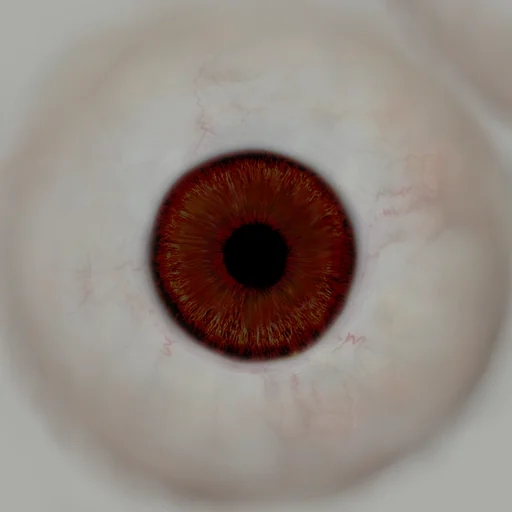
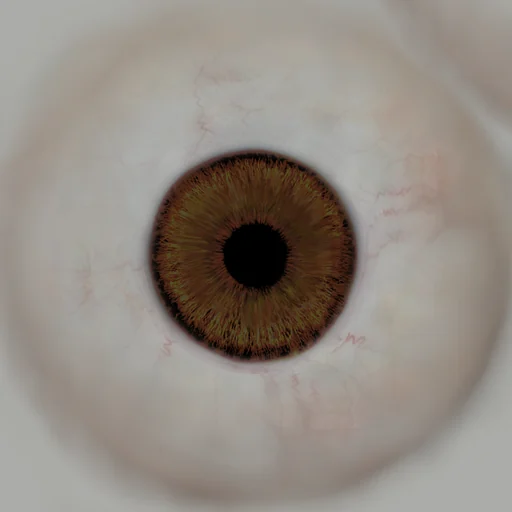
WIP: realism R&D snapshot (skeleton runtime, proxies tests, skin UV in progress)
Claude-Session: https://claude.ai/code/session_01Fa1ebHpDcKmbbxJAWQLf3G

Changed region(s): [[0.3125, 0.3125, 0.6875, 0.6875]]

diff --git a/src/__tests__/skeleton.test.ts b/src/__tests__/skeleton.test.ts
@@ -1,0 +1,251 @@
+import { readFileSync, statSync } from 'node:fs';
+import { join } from 'node:path';
+import { describe, expect, it } from 'vitest';
+import type { HumanData } from '../human/engine';
+import { fitHuman } from '../human/fit';
+import {
+  computeCapsules,
+  computeJoints,
+  estimateAbduction,
+  jointIndex,
+  loadSkeleton,
+  poseBones,
+  poseJoints,
+  skin,
+  type Skeleton,
+  type SkeletonJson,
+} from '../human/skeleton';
+
+const dir = join(__dirname, '..', '..', 'public', 'human');
+
+function loadHuman(): { data: HumanData; meta: { vectorScale: number } } {
+  const meta = JSON.parse(readFileSync(join(dir, 'human.json'), 'utf8'));
+  const b = readFileSync(join(dir, 'human.bin'));
+  const buf = b.buffer.slice(b.byteOffset, b.byteOffset + b.byteLength);
+  const [pOff, nVerts] = meta.layout.positions;
+  const data: HumanData = { base: new Float32Array(buf, pOff, nVerts * 3), nVerts, faces: {}, targets: new Map(), scale: meta.vectorScale };
+  for (const [g, [off, n]] of Object.entries(meta.layout.faces) as [string, [number, number]][]) data.faces[g] = new Uint16Array(buf, off, n * 4);
+  for (const t of meta.targets) data.targets.set(t.name, { idx: new Uint16Array(buf, t.idx, t.n), vec: new Int16Array(buf, t.vec, t.n * 3) });
+  return { data, meta };
+}
+
+function loadSkel(): Skeleton {
+  const json = JSON.parse(readFileSync(join(dir, 'skeleton.json'), 'utf8')) as SkeletonJson;
+  const b = readFileSync(join(dir, 'skeleton.bin'));
+  return loadSkeleton(json, b.buffer.slice(b.byteOffset, b.byteOffset + b.byteLength));
+}
+
+interface RefCase {
+  target: string | null;
+  weight: number;
+  t: number;
+  arm: number;
+  leg: number;
+  verts: number[];
+  pos: number[];
+  restJoints: number[];
+  joints: number[];
+  capsules: number[];
+  checksum: number;
+  estimate: [number, number];
+}
+
+const maxAbsDiff = (a: ArrayLike<number>, b: ArrayLike<number>) => {
+  expect(a.length).toBe(b.length);
+  let m = 0;
+  for (let i = 0; i < a.length; i++) m = Math.max(m, Math.abs(a[i] - b[i]));
+  return m;
+};
+
+describe('skeleton / relaxed pose', () => {
+  const { data } = loadHuman();
+  const skel = loadSkel();
+  const J = (j: Float32Array, name: string) => {
+    const i = jointIndex(skel, name) * 3;
+    return [j[i], j[i + 1], j[i + 2]];
+  };
+  const dist = (a: number[], b: number[]) => Math.hypot(a[0] - b[0], a[1] - b[1], a[2] - b[2]);
+  const male = { sex: 'male' as const, heightCm: 182, weight: 87.7, fatKg: 19.8, ffm: 67.9, smm: 38.2, age: 29 };
+  const obese = { sex: 'male' as const, heightCm: 176, weight: 140, fatKg: 60, ffm: 80, smm: 42, age: 40 };
+  const leanF = { sex: 'female' as const, heightCm: 168, weight: 50, fatKg: 8, ffm: 42, smm: 22, age: 25 };
+
+  it('asset is within budget and well formed', () => {
+    const kb = (statSync(join(dir, 'skeleton.bin')).size + statSync(join(dir, 'skeleton.json')).size) / 1024;
+    expect(kb).toBeLessThan(250);
+    expect(skel.nVerts).toBe(data.nVerts);
+    expect(skel.nBones).toBe(47);
+    expect(skel.nCapsules).toBeGreaterThanOrEqual(16);
+    expect(skel.nCapsules).toBeLessThanOrEqual(20);
+    for (let i = 0; i < skel.nBones; i++) expect(skel.boneParent[i]).toBeLessThan(i); // parents first
+    for (let v = 0; v < skel.nVerts; v++) {
+      const k = v * 4;
+      const sum = skel.skinWeight[k] + skel.skinWeight[k + 1] + skel.skinWeight[k + 2] + skel.skinWeight[k + 3];
+      if (Math.abs(sum - 1) > 1e-6 || skel.skinWeight[k] < skel.skinWeight[k + 1]) throw new Error(`bad weights at vertex ${v}`);
+    }
+  });
+
+  it('matches the numpy reference (tools/mh/build_skeleton.py) within 1e-3 dm', () => {
+    const ref = JSON.parse(readFileSync(join(__dirname, 'skeleton.selftest.json'), 'utf8')) as { cases: RefCase[] };
+    expect(ref.cases.length).toBeGreaterThanOrEqual(3);
+    for (const c of ref.cases) {
+      const pos = Float32Array.from(data.base);
+      if (c.target) {
+        const t = data.targets.get(c.target)!;
+        for (let i = 0; i < t.idx.length; i++) for (let k = 0; k < 3; k++) pos[t.idx[i] * 3 + k] += t.vec[i * 3 + k] * data.scale * c.weight;
+      }
+      const joints = computeJoints(skel, pos);
+      expect(maxAbsDiff(joints, c.restJoints)).toBeLessThan(1e-4);
+      const pose = poseBones(skel, joints, { t: c.t, armAbductionDeg: c.arm, legAbductionDeg: c.leg });
+      const out = skin(skel, pose, pos);
+      const got = c.verts.flatMap((v) => [out[v * 3], out[v * 3 + 1], out[v * 3 + 2]]);
+      expect(maxAbsDiff(got, c.pos)).toBeLessThan(1e-4); // requirement: 1e-3 dm
+      let sum = 0;
+      for (let i = 0; i < out.length; i++) sum += Math.abs(out[i]);
+      expect(Math.abs(sum - c.checksum) / c.checksum).toBeLessThan(1e-6);
+      expect(maxAbsDiff(poseJoints(skel, pose, joints), c.joints)).toBeLessThan(1e-4);
+      expect(maxAbsDiff(computeCapsules(skel, pose, joints, pos), c.capsules)).toBeLessThan(1e-4);
+      const est = estimateAbduction(skel, pos, joints);
+      expect(Math.abs(est.armAbductionDeg - c.estimate[0])).toBeLessThan(0.02);
+      expect(Math.abs(est.legAbductionDeg - c.estimate[1])).toBeLessThan(0.02);
+    }
+  });
+
+  it('t = 0 is the identity, in-place skinning works, bone lengths are preserved', () => {
+    const pos = fitHuman(data, male).pos;
+    const joints = computeJoints(skel, pos);
+    const rest = skin(skel, poseBones(skel, joints, { t: 0, armAbductionDeg: 20, legAbductionDeg: 10 }), pos);
+    expect(maxAbsDiff(rest, pos)).toBeLessThan(1e-5);
+
+    const pose = poseBones(skel, joints, { t: 1, armAbductionDeg: 6, legAbductionDeg: 3 });
+    const a = skin(skel, pose, pos);
+    const b = skin(skel, pose, Float32Array.from(pos));
+    const inPlace = Float32Array.from(pos);
+    skin(skel, pose, inPlace, inPlace);
+    expect(maxAbsDiff(a, b)).toBe(0);
+    expect(maxAbsDiff(a, inPlace)).toBe(0);
+
+    const pj = poseJoints(skel, pose, joints);
+    const chains = [
+      ['clavicle', 'shoulder01', 'upperarm01', 'lowerarm01', 'lowerarm02', 'wrist', 'finger3-1', 'finger3-2', 'finger3-3'],
+      ['wrist', 'finger1-1', 'finger1-2', 'finger1-3'],
+      ['upperleg01', 'lowerleg01', 'foot', 'toe3-1'],
+    ];
+    for (const side of ['L', 'R'])
+      for (const ch of chains)
+        for (let i = 1; i < ch.length; i++) {
+          const n0 = `${ch[i - 1]}.${side}`;
+          const n1 = `${ch[i]}.${side}`;
+          expect(Math.abs(dist(J(pj, n0), J(pj, n1)) - dist(J(joints, n0), J(joints, n1)))).toBeLessThan(1e-4);
+        }
+    // spine / head are not posed: the head stays level
+    for (const n of ['root', 'spine01', 'neck01', 'head', 'head_top']) expect(dist(J(pj, n), J(joints, n))).toBeLessThan(1e-6);
+  });
+
+  it('gives a natural relaxed stance on normal bodies', () => {
+    for (const input of [male, leanF]) {
+      const pos = fitHuman(data, input).pos;
+      const joints = computeJoints(skel, pos);
+      const est = estimateAbduction(skel, pos, joints);
+      expect(est.armAbductionDeg).toBeLessThan(3);
+      expect(est.legAbductionDeg).toBe(0);
+      const pose = poseBones(skel, joints, { t: 1, ...est });
+      const pj = poseJoints(skel, pose, joints);
+      for (const [side, s] of [['L', 1], ['R', -1]] as const) {
+        const sh = J(pj, `upperarm01.${side}`);
+        const el = J(pj, `lowerarm01.${side}`);
+        const wr = J(pj, `wrist.${side}`);
+        const tip = J(pj, `fingertip3.${side}`);
+        const knuckle = J(pj, `finger3-1.${side}`);
+        // upper arm 10–20° away from vertical in the frontal plane
+        const abd = Math.atan2(s * (el[0] - sh[0]), sh[1] - el[1]) / (Math.PI / 180);
+        expect(abd).toBeGreaterThan(10);
+        expect(abd).toBeLessThan(20);
+        // slight elbow bend
+        const u = [el[0] - sh[0], el[1] - sh[1], el[2] - sh[2]];
+        const f = [wr[0] - el[0], wr[1] - el[1], wr[2] - el[2]];
+        const bend = Math.acos((u[0] * f[0] + u[1] * f[1] + u[2] * f[2]) / (Math.hypot(...u) * Math.hypot(...f))) / (Math.PI / 180);
+        expect(bend).toBeGreaterThan(10);
+        expect(bend).toBeLessThan(30);
+        // relaxed curl: the middle fingertip is clearly closer to the wrist than a straight finger would be
+        const straight = dist(wr, knuckle) + dist(knuckle, J(pj, `finger3-2.${side}`)) + dist(J(pj, `finger3-2.${side}`), J(pj, `finger3-3.${side}`)) + dist(J(pj, `finger3-3.${side}`), tip);
+        expect(dist(wr, tip) / straight).toBeLessThan(0.97);
+        expect(dist(wr, tip) / straight).toBeGreaterThan(0.8);
+        // hand hangs beside the thigh, feet about hip width
+        expect(tip[1]).toBeLessThan(J(pj, `upperleg01.${side}`)[1]);
+        expect(Math.abs(wr[1] - J(pj, `upperleg01.${side}`)[1])).toBeLessThan(1.2);
+        const ankle = s * J(pj, `foot.${side}`)[0];
+        const hip = s * J(pj, `upperleg01.${side}`)[0];
+        expect(ankle / hip).toBeGreaterThan(0.7);
+        expect(ankle / hip).toBeLessThan(1.3);
+      }
+      // symmetric
+      const l = J(pj, 'wrist.L');
+      const r = J(pj, 'wrist.R');
+      expect(Math.abs(l[0] + r[0])).toBeLessThan(0.02);
+      expect(Math.abs(l[1] - r[1])).toBeLessThan(0.02);
+    }
+  });
+
+  it('auto abduction keeps an obese body free of arm / thigh intersection', () => {
+    const pos = fitHuman(data, obese).pos;
+    const joints = computeJoints(skel, pos);
+    const est = estimateAbduction(skel, pos, joints);
+    expect(est.armAbductionDeg).toBeGreaterThan(4);
+    expect(est.armAbductionDeg).toBeLessThan(30);
+    expect(est.legAbductionDeg).toBeGreaterThan(1);
+    expect(est.legAbductionDeg).toBeLessThan(15);
+    const strict = estimateAbduction(skel, pos, joints, { softDm: 0 });
+    expect(strict.legAbductionDeg).toBeGreaterThan(est.legAbductionDeg);
+
+    // independent check on the posed mesh: left-leg vertices stay on their side of the mid-plane (≤ 1 cm soft overlap)
+    const out = skin(skel, poseBones(skel, joints, { t: 1, ...est }), pos);
+    let minX = Infinity;
+    for (const v of skel.probes.legL) minX = Math.min(minX, out[v * 3]);
+    for (const v of skel.probes.legR) minX = Math.min(minX, -out[v * 3]);
+    expect(minX).toBeGreaterThan(-0.105);
+    // hands end up outside the widest point of the hips / thighs
+    const none = skin(skel, poseBones(skel, joints, { t: 1 }), pos);
+    let hipMax = 0;
+    for (const v of skel.probes.torsoL) hipMax = Math.max(hipMax, out[v * 3]);
+    const handX = (p: Float32Array) => {
+      let m = Infinity;
+      for (const v of skel.probes.armL) m = Math.min(m, p[v * 3]);
+      return m;
+    };
+    expect(handX(out)).toBeGreaterThan(handX(none) + 0.3);
+    expect(hipMax).toBeGreaterThan(1.5);
+    // capsules follow the body: thigh radius of the obese body is clearly larger than the lean one's
+    const caps = computeCapsules(skel, poseBones(skel, joints, { t: 1, ...est }), joints, pos);
+    const thigh = skel.capsuleNames.indexOf('thigh.L');
+    const leanPos = fitHuman(data, leanF).pos;
+    const leanJ = computeJoints(skel, leanPos);
+    const leanCaps = computeCapsules(skel, poseBones(skel, leanJ), leanJ, leanPos);
+    expect(caps[thigh * 7 + 6]).toBeGreaterThan(leanCaps[thigh * 7 + 6] * 1.3);
+    for (let c = 0; c < skel.nCapsules; c++) {
+      expect(caps[c * 7 + 6]).toBeGreaterThan(0.1);
+      expect(caps[c * 7 + 6]).toBeLessThan(3.5);
+    }
+  });
+
+  it('computeJoints + poseBones + skin run in < 6 ms', () => {
+    const pos = fitHuman(data, male).pos;
+    const joints = new Float32Array(skel.nJoints * 3);
+    const out = new Float32Array(pos.length);
+    const pose = poseBones(skel, computeJoints(skel, pos, joints));
+    const times: number[] = [];
+    for (let i = 0; i < 60; i++) {
+      const t0 = performance.now();
+      computeJoints(skel, pos, joints);
+      poseBones(skel, joints, { t: 1, armAbductionDeg: 5, legAbductionDeg: 2 }, pose);
+      skin(skel, pose, pos, out);
+      times.push(performance.now() - t0);
+    }
+    times.sort((a, b) => a - b);
+    const median = times[30];
+    console.log(`skeleton: computeJoints+poseBones+skin median ${median.toFixed(3)} ms (min ${times[0].toFixed(3)}, max ${times[59].toFixed(3)})`);
+    expect(median).toBeLessThan(6);
+    const t0 = performance.now();
+    for (let i = 0; i < 20; i++) estimateAbduction(skel, pos, joints);
+    console.log(`skeleton: estimateAbduction ${((performance.now() - t0) / 20).toFixed(3)} ms`);
+  });
+});

diff --git a/tools/mh/build_proxies.py b/tools/mh/build_proxies.py
@@ -452,12 +452,22 @@ def find_pupil(im):
 EYE_CROP_HALF = 0.285  # half size (uv) of the square cut around the pupil; the uv island radius is 0.267
 
 
-def eye_texture(src, dst, size, quality):
+def eye_texture(src, dst, size, quality, hue_shift_deg=0.0, sat_scale=1.0):
+    """Square cut around the pupil. hue_shift_deg / sat_scale recolour the iris only (saturated texels near the pupil):
+    MakeHuman's "brown" iris is a blood red-brown (hue 10 deg, saturation 0.95) that reads as red eyes when lit."""
     im = Image.open(src).convert('RGB')
     pu, pv = find_pupil(Image.open(src))
     w = im.size[0]
     box = ((pu - EYE_CROP_HALF) * w, (1 - pv - EYE_CROP_HALF) * w, (pu + EYE_CROP_HALF) * w, (1 - pv + EYE_CROP_HALF) * w)
     crop = im.resize((size, size), Image.LANCZOS, box=box)
+    if hue_shift_deg or sat_scale != 1.0:
+        hsv = np.asarray(crop.convert('HSV')).astype(np.float64)
+        y, x = np.mgrid[0:size, 0:size]
+        r = np.hypot((x + 0.5) / size - 0.5, (y + 0.5) / size - 0.5)
+        k = np.clip((0.30 - r) / 0.05, 0, 1) * np.clip((hsv[:, :, 1] / 255.0 - 0.35) / 0.25, 0, 1)  # iris weight
+        hsv[:, :, 0] = (hsv[:, :, 0] + k * hue_shift_deg * 255.0 / 360.0) % 256
+        hsv[:, :, 1] *= 1 - k * (1 - sat_scale)
+        crop = Image.fromarray(np.clip(np.round(hsv), 0, 255).astype(np.uint8), 'HSV').convert('RGB')
     return save_webp(crop, dst, quality), (pu, pv)
 
 
@@ -703,7 +713,8 @@ def main():
                 if col == 'brown' and args.eye_hires and os.path.exists(args.eye_hires):
                     src, size = Path(args.eye_hires), 512
                 dst = tex_dir / ('eye_%s.webp' % col)
-                n, pupil = eye_texture(src, dst, size, q)
+                # brown: shift the iris from red-brown to a natural dark brown
+                n, pupil = eye_texture(src, dst, size, q, *((17.0, 0.72) if col == 'brown' else ()))
                 tex_bytes[dst.name] = n
                 textures[col] = 'tex/' + dst.name
             e, qerr = emit(name, 'eyes', a['label'], a['src'], p_rest, ref, w, off, ball_faces, ball_uv, den, hw,
